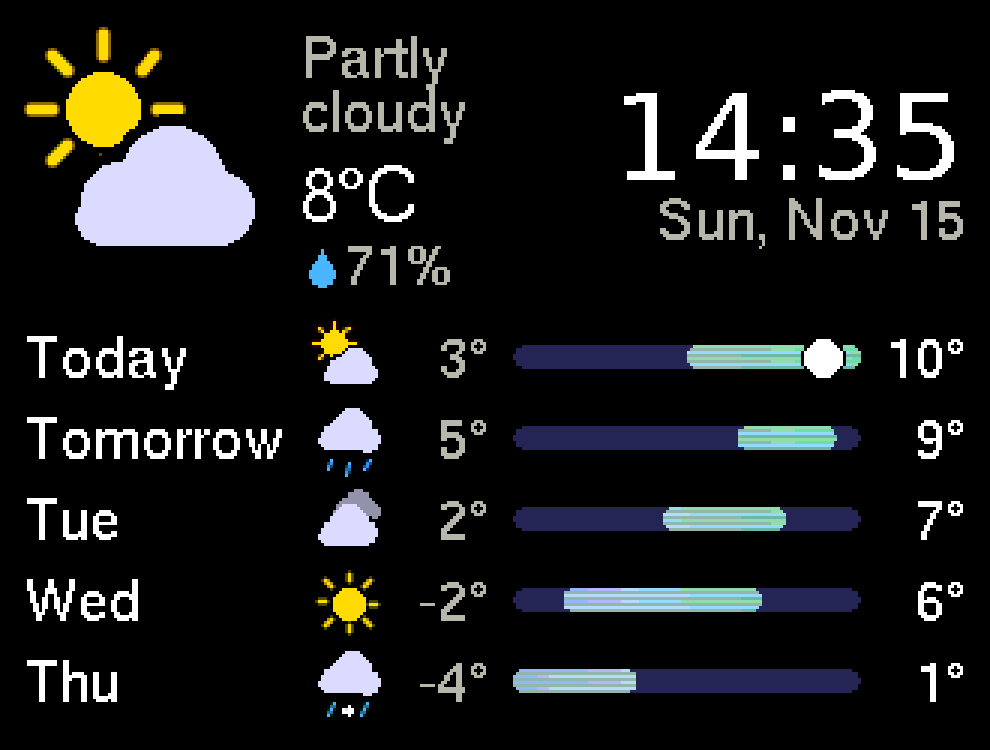
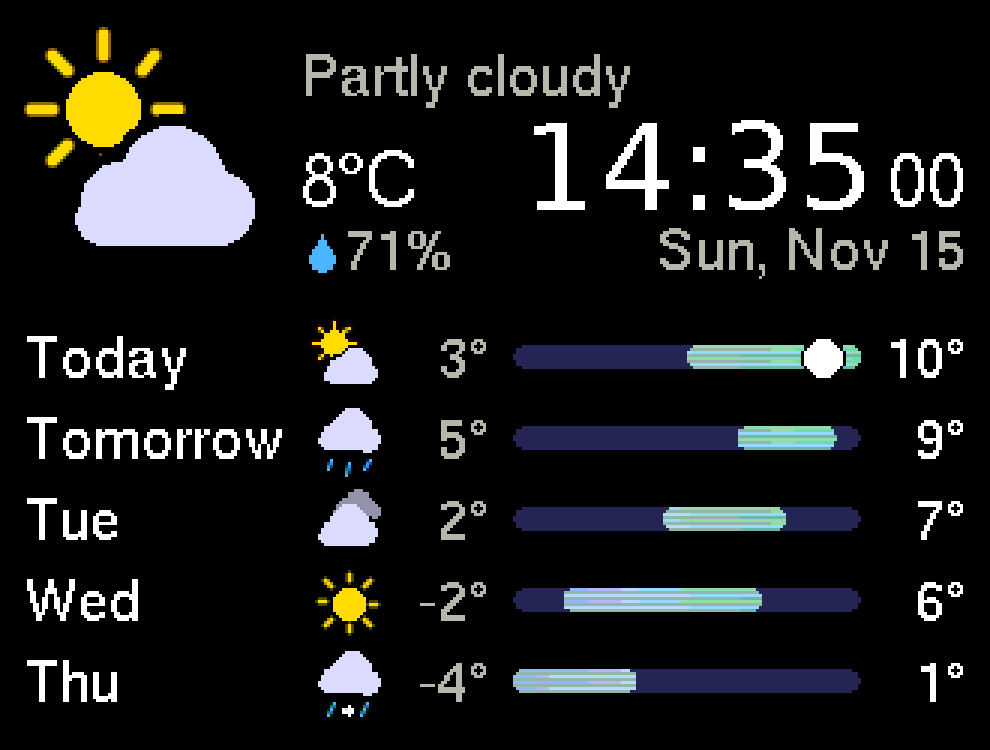
Add seconds

Changed region(s): [[0.303, 0.0307, 0.9697, 0.3987], [0.303, 0.0307, 0.3333, 0.0613]]

diff --git a/src/ui.cpp b/src/ui.cpp
@@ -242,6 +242,11 @@ void WeatherUi::drawHeader(LovyanGFX* g, int ox, int oy, const WeatherData& w, t
     snprintf(timeStr, sizeof(timeStr), "%d:%02d", h12 == 0 ? 12 : h12, lt.tm_min);
     strcpy(ampm, lt.tm_hour < 12 ? "AM" : "PM");
   }
+  char secStr[4] = "";
+#if CLOCK_SECONDS
+  if (timeValid) snprintf(secStr, sizeof(secStr), "%02d", lt.tm_sec);
+  else strcpy(secStr, "--");
+#endif
   char date[40] = "";
   if (timeValid) formatDate(date, sizeof(date), lt, true);
 
@@ -265,28 +270,55 @@ void WeatherUi::drawHeader(LovyanGFX* g, int ox, int oy, const WeatherData& w, t
 
   g->setFont(&fontMedium);
   const int tempW = g->textWidth(temp);
+  const int secW = secStr[0] ? g->textWidth("00") + 4 : 0;  // fixed width: no jitter
   g->setFont(&fontSmall);
   const int ampmW = ampm[0] ? g->textWidth(ampm) + 3 : 0;
   const int condW = g->textWidth(cond);
   const int humW = hum[0] ? 8 + dropS + 1 + g->textWidth(hum) : 0;
 
-  // Biggest clock that still leaves room for the text column. Measured with a
-  // fixed reference string so the size never changes from minute to minute.
+  // Column right of HH:MM: AM/PM at the top, seconds at the bottom. Stacked when the
+  // clock is tall enough, otherwise side by side.
+  auto stacked = [&](const ClockFont& f) { return f.cap >= CAP_SMALL + 4 + CAP_MEDIUM; };
+  auto sideWidth = [&](const ClockFont& f) {
+    if (ampmW && secW && !stacked(f)) return ampmW + secW + 6;  // "PM 00"
+    return ampmW > secW ? ampmW : secW;
+  };
+
+  // Two layouts, picked from fixed reference sizes (so nothing jumps from minute to minute
+  // or when the weather changes):
+  //  A: left column (condition, temperature, humidity) next to the clock + date, both
+  //     centered vertically. Needs minTextW next to the clock.
+  //  B: condition on its own line across the full width, the clock moved down below it;
+  //     temperature on the clock's baseline, humidity next to it or on the date's line.
+  //     Only the temperature has to fit next to the clock, so a bigger clock fits.
+  // Biggest clock wins; per size A is preferred (the classic look).
+  const int fullTextW = W - (tx - ox);
+  const int condGap = 8;  // condition baseline -> top of the clock digits (layout B)
+  g->setFont(&fontMedium);
+  const int tempRefW = g->textWidth(SHOW_DECIMAL ? "-88.8\xC2\xB0" "C" : "-88\xC2\xB0" "C");
   const int minTextW = ampm[0] ? 56 : 90;
   const int nFonts = sizeof(CLOCK_FONTS) / sizeof(CLOCK_FONTS[0]);
   const ClockFont* cf = &CLOCK_FONTS[nFonts - 1];
+  bool layoutB = false;
   for (auto& f : CLOCK_FONTS) {
     g->setFont(f.font);
-    int cw = g->textWidth("00:00") + ampmW;
-    if (f.cap + gapV + CAP_SMALL + 4 <= H && W - cw - 10 - (tx - ox) >= minTextW) { cf = &f; break; }
+    const int cw = g->textWidth("00:00") + sideWidth(f);
+    const int besideW = fullTextW - cw - 10;
+    if (f.cap + gapV + CAP_SMALL + 4 <= H && besideW >= minTextW) { cf = &f; break; }
+    if (CAP_SMALL + condGap + f.cap + gapV + CAP_SMALL + 2 <= H && besideW >= tempRefW) {
+      cf = &f;
+      layoutB = true;
+      break;
+    }
   }
+  const int sideW = sideWidth(*cf);
   g->setFont(cf->font);
-  const int clockW = g->textWidth(timeStr) + ampmW;
-  int textW = W - clockW - 10 - (tx - ox);
+  const int clockW = g->textWidth(timeStr) + sideW;
+  int textW = layoutB ? fullTextW : W - clockW - 10 - (tx - ox);
 
   // Condition on one line, or wrapped onto two (split at the last fitting space)
   bool wrap = false;
-  if (condW > textW) {
+  if (condW > textW && !layoutB) {
     g->setFont(&fontSmall);
     const char* best = nullptr;
     for (const char* p = strchr(cond, ' '); p; p = strchr(p + 1, ' ')) {
@@ -301,29 +333,42 @@ void WeatherUi::drawHeader(LovyanGFX* g, int ox, int oy, const WeatherData& w, t
     }
   }
 
-  // Long date if it is not wider than the clock (or the available room)
+  // Long date if it is not wider than the clock (or, in layout A, the available room)
   g->setFont(&fontSmall);
   int dateW = g->textWidth(date);
-  if (dateW > clockW && dateW > W - (tx - ox) - textW - 10) {
+  if (dateW > clockW && (layoutB || dateW > W - (tx - ox) - textW - 10)) {
     strcpy(date, dateShort);
     dateW = g->textWidth(date);
   }
   const int rightW = clockW > dateW ? clockW : dateW;
-  if (rightW > clockW) textW = W - rightW - 10 - (tx - ox);
+  if (!layoutB && rightW > clockW) textW = W - rightW - 10 - (tx - ox);
 
-  const int blockH = cf->cap + gapV + CAP_SMALL;
-  const int clockBase = oy + (H - blockH) / 2 + cf->cap;
+  int clockBase, condBase;
+  if (layoutB) {
+    const int blockH = CAP_SMALL + condGap + cf->cap + gapV + CAP_SMALL + 2;
+    condBase = oy + (H - blockH) / 2 + CAP_SMALL;
+    clockBase = condBase + condGap + cf->cap;
+  } else {
+    const int blockH = cf->cap + gapV + CAP_SMALL;
+    clockBase = oy + (H - blockH) / 2 + cf->cap;
+    condBase = 0;  // set below
+  }
   const int dateBase = clockBase + gapV + CAP_SMALL + 2;
   const int right = ox + W;
 
   g->setFont(cf->font);
   g->setTextColor(C_TEXT);
   g->setTextDatum(textdatum_t::baseline_right);
-  g->drawString(timeStr, right - ampmW, clockBase);
+  g->drawString(timeStr, right - sideW, clockBase);
+  g->setTextDatum(textdatum_t::baseline_left);
   if (ampm[0]) {
     g->setFont(&fontSmall);
-    g->setTextDatum(textdatum_t::baseline_left);
-    g->drawString(ampm, right - ampmW + 3, clockBase - cf->cap + CAP_SMALL);
+    g->drawString(ampm, right - sideW + 3, clockBase - cf->cap + CAP_SMALL);
+  }
+  if (secStr[0]) {
+    g->setFont(&fontMedium);
+    const int sx = (ampmW && !stacked(*cf)) ? right - secW + 4 : right - sideW + 4;
+    g->drawString(secStr, sx, clockBase);
   }
   g->setFont(&fontSmall);
   g->setTextColor(C_DIM);
@@ -338,23 +383,34 @@ void WeatherUi::drawHeader(LovyanGFX* g, int ox, int oy, const WeatherData& w, t
   else drawWeatherIcon(g, ox, iconY, iconS, "exceptional", false, C_BG);
 
   const int lineGap = 5;
-  int leftBlockH = CAP_SMALL + 12 + CAP_MEDIUM + (wrap ? CAP_SMALL + lineGap : 0);
-  // Humidity next to the temperature, or on its own line below if there's room
-  const bool humInline = hum[0] && tempW + humW <= textW;
-  const bool humLine = hum[0] && !humInline && leftBlockH + 8 + CAP_SMALL <= H - 6;
-  if (humLine) leftBlockH += 8 + CAP_SMALL;
-  int condBase = oy + (H - leftBlockH) / 2 + CAP_SMALL;
+  int tempBase;
+  bool humInline, humLine;
+  int humLineBase;
+  if (layoutB) {
+    // Temperature on the clock's baseline; humidity next to it or on the date's line
+    tempBase = clockBase;
+    humInline = hum[0] && tempW + humW <= fullTextW - clockW - 10;
+    humLine = hum[0] && !humInline && humW - 8 <= fullTextW - dateW - 10;
+    humLineBase = dateBase;
+  } else {
+    int leftBlockH = CAP_SMALL + 12 + CAP_MEDIUM + (wrap ? CAP_SMALL + lineGap : 0);
+    // Humidity next to the temperature, or on its own line below if there's room
+    humInline = hum[0] && tempW + humW <= textW;
+    humLine = hum[0] && !humInline && leftBlockH + 8 + CAP_SMALL <= H - 6;
+    if (humLine) leftBlockH += 8 + CAP_SMALL;
+    condBase = oy + (H - leftBlockH) / 2 + CAP_SMALL;
+    tempBase = condBase + (wrap ? CAP_SMALL + lineGap : 0) + 12 + CAP_MEDIUM;
+    humLineBase = tempBase + 8 + CAP_SMALL;
+  }
 
   g->setFont(&fontSmall);
   g->setTextColor(C_DIM);
   fitText(g, cond, textW);
   g->drawString(cond, tx, condBase);
   if (wrap) {
-    condBase += CAP_SMALL + lineGap;
     fitText(g, cond2, textW);
-    g->drawString(cond2, tx, condBase);
+    g->drawString(cond2, tx, condBase + CAP_SMALL + lineGap);
   }
-  const int tempBase = condBase + 12 + CAP_MEDIUM;
 
   g->setFont(&fontMedium);
   g->setTextColor(stale ? C_DIM : C_TEXT);
@@ -362,7 +418,7 @@ void WeatherUi::drawHeader(LovyanGFX* g, int ox, int oy, const WeatherData& w, t
 
   if (humInline || humLine) {
     const int hx = humInline ? x + 8 : tx;
-    const int hBase = humInline ? tempBase : tempBase + 8 + CAP_SMALL;
+    const int hBase = humInline ? tempBase : humLineBase;
     g->setFont(&fontSmall);
     drawDropIcon(g, hx, hBase - dropS + 1, dropS, C_HUMID);
     g->setTextColor(C_DIM);

diff --git a/src/main.cpp b/src/main.cpp
@@ -112,7 +112,7 @@ void loop()
   static bool fetchDue = true;
   static bool lastFetchOk = false;
   static uint32_t settingsVer = settingsVersion();
-  static int lastMinute = -1;
+  static int lastTick = -1;  // second (CLOCK_SECONDS) or minute of the last header redraw
   static int lastKey = -1;
   static IPAddress shownIp;
   static uint32_t radioVer = 0;
@@ -207,7 +207,7 @@ void loop()
   localtime_r(&t, &lt);
   if (full) {
     ui.render(weather, t, timeValid());
-    lastMinute = lt.tm_min;
+    lastTick = CLOCK_SECONDS ? lt.tm_sec : lt.tm_min;
     lastKey = FORECAST_HOURLY ? lt.tm_hour : lt.tm_yday;
     radioLayoutChanged = false;
   } else if (radioLayoutChanged) {
@@ -216,8 +216,8 @@ void loop()
   } else if (radioTitleChanged) {
     ui.renderNowPlaying();
   }
-  if (!full && lt.tm_min != lastMinute) {
-    lastMinute = lt.tm_min;
+  if (!full && (CLOCK_SECONDS ? lt.tm_sec : lt.tm_min) != lastTick) {
+    lastTick = CLOCK_SECONDS ? lt.tm_sec : lt.tm_min;
     ui.renderHeader(weather, t, timeValid());
     // New day or new hour: labels ("Today", "Now") change
     const int key = FORECAST_HOURLY ? lt.tm_hour : lt.tm_yday;
@@ -229,5 +229,13 @@ void loop()
 
   // Long song titles scroll: faster loop for smooth movement (~30 px/s)
   const bool scrolling = ui.animateNowPlaying(millis());
-  delay(scrolling ? 20 : 50);
+  uint32_t wait = scrolling ? 20 : 50;
+#if CLOCK_SECONDS
+  // Wake just after the next full second, so the seconds tick evenly
+  timeval tv;
+  gettimeofday(&tv, nullptr);
+  const uint32_t toNextSecond = 1000 - tv.tv_usec / 1000 + 2;
+  if (toNextSecond < wait) wait = toNextSecond;
+#endif
+  delay(wait);
 }

diff --git a/include/config.h b/include/config.h
@@ -44,6 +44,9 @@
 #ifndef CLOCK_24H
 #define CLOCK_24H             1     // 0 = 12h clock with AM/PM
 #endif
+#ifndef CLOCK_SECONDS
+#define CLOCK_SECONDS         1     // Seconds after the time, in the temperature's font size
+#endif
 
 // --- Display content ---------------------------------------------------------
 #ifndef FORECAST_HOURLY
